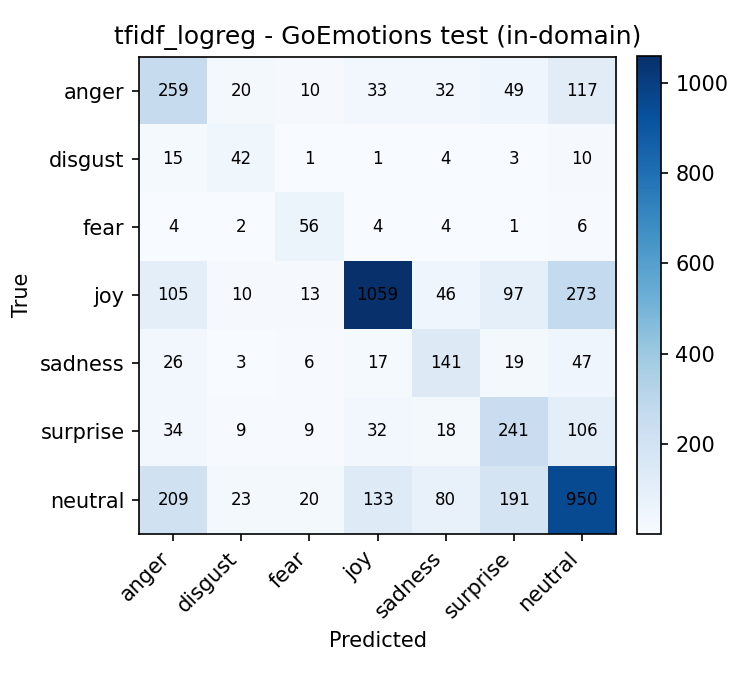
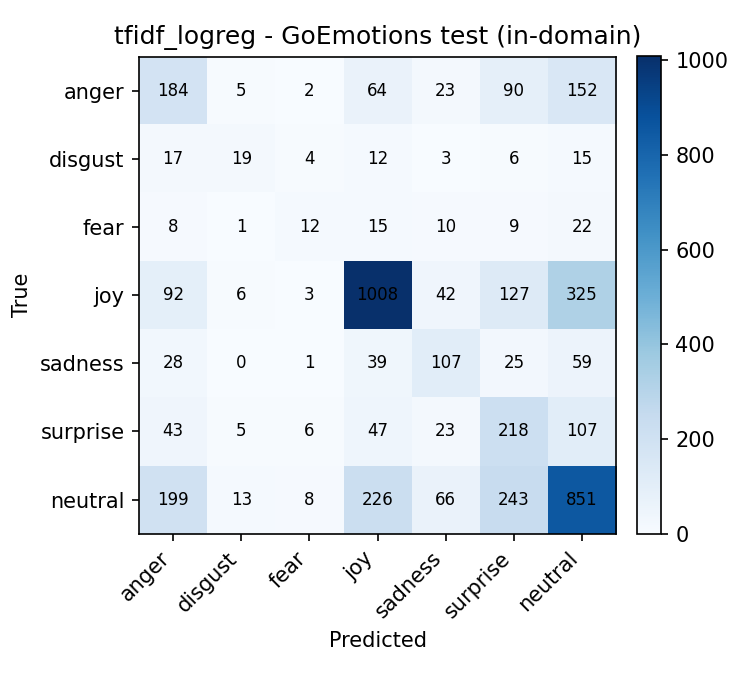
Add retry/backoff for rate limits, incremental cache saving, and progress logging to LLM baseline

diff --git a/src/models.py b/src/models.py
@@ -283,26 +283,49 @@ class LLMFewShotBaseline:
         lines.append("Label:")
         return "\n".join(lines)
 
-    def _call_api(self, prompt, api_key):
+    def _call_api(self, prompt, api_key, max_retries=5):
+        import time as _time
         import requests
-        resp = requests.post(
-            "https://api.anthropic.com/v1/messages",
-            headers={
-                "x-api-key": api_key,
-                "anthropic-version": "2023-06-01",
-                "content-type": "application/json",
-            },
-            json={
-                "model": self.model,
-                "max_tokens": 10,
-                "messages": [{"role": "user", "content": prompt}],
-            },
-            timeout=30,
-        )
-        resp.raise_for_status()
-        data = resp.json()
-        text = "".join(b["text"] for b in data["content"] if b["type"] == "text")
-        return text.strip().lower()
+
+        for attempt in range(max_retries):
+            try:
+                resp = requests.post(
+                    "https://api.anthropic.com/v1/messages",
+                    headers={
+                        "x-api-key": api_key,
+                        "anthropic-version": "2023-06-01",
+                        "content-type": "application/json",
+                    },
+                    json={
+                        "model": self.model,
+                        "max_tokens": 10,
+                        "messages": [{"role": "user", "content": prompt}],
+                    },
+                    timeout=30,
+                )
+            except requests.RequestException:
+                if attempt == max_retries - 1:
+                    raise
+                _time.sleep(2 ** attempt)
+                continue
+
+            # rate limit (429) or transient server error (5xx): back off and retry
+            if resp.status_code == 429 or resp.status_code >= 500:
+                if attempt == max_retries - 1:
+                    resp.raise_for_status()
+                retry_after = resp.headers.get("retry-after")
+                wait = float(retry_after) if retry_after else float(2 ** attempt)
+                print(f"[LLMFewShotBaseline] status {resp.status_code}, "
+                      f"retrying in {wait:.0f}s (attempt {attempt + 1}/{max_retries}) ...")
+                _time.sleep(wait)
+                continue
+
+            resp.raise_for_status()
+            data = resp.json()
+            text = "".join(b["text"] for b in data["content"] if b["type"] == "text")
+            return text.strip().lower()
+
+        raise RuntimeError(f"Exceeded {max_retries} retries calling the Anthropic API")
 
     def predict(self, X, labels):
         import hashlib
@@ -319,25 +342,39 @@ class LLMFewShotBaseline:
         fallback = "neutral" if "neutral" in labels else sorted(labels)[0]
         preds = []
         n_calls = 0
-        for text in X:
-            key = hashlib.sha256(
-                f"{self.model}|{sorted(labels)}|{text}".encode("utf-8")
-            ).hexdigest()
-            if key in self._cache:
-                pred = self._cache[key]
-            else:
-                prompt = self._build_prompt(text, labels)
-                try:
-                    raw = self._call_api(prompt, api_key)
-                except Exception as exc:  # noqa: BLE001 - any API/network error
-                    raise LLMUnavailableError(f"LLM API call failed: {exc}") from exc
-                pred = raw if raw in labels else fallback
-                self._cache[key] = pred
-                n_calls += 1
-                if self.sleep_between_calls:
-                    time.sleep(self.sleep_between_calls)
-            preds.append(pred)
-        if n_calls:
-            self._save_cache()
+        n_total = len(X)
+        t_start = time.time()
+        try:
+            for i, text in enumerate(X):
+                key = hashlib.sha256(
+                    f"{self.model}|{sorted(labels)}|{text}".encode("utf-8")
+                ).hexdigest()
+                if key in self._cache:
+                    pred = self._cache[key]
+                else:
+                    prompt = self._build_prompt(text, labels)
+                    try:
+                        raw = self._call_api(prompt, api_key)
+                    except Exception as exc:  # noqa: BLE001 - any API/network error
+                        raise LLMUnavailableError(
+                            f"LLM API call failed: {exc}") from exc
+                    pred = raw if raw in labels else fallback
+                    self._cache[key] = pred
+                    n_calls += 1
+                    # save after every new call so a crash never loses progress
+                    self._save_cache()
+                    if self.sleep_between_calls:
+                        time.sleep(self.sleep_between_calls)
+                    if n_calls % 25 == 0:
+                        elapsed = time.time() - t_start
+                        rate = elapsed / n_calls
+                        remaining = (n_total - i - 1) * rate
+                        print(f"[LLMFewShotBaseline] {i + 1}/{n_total} rows "
+                              f"({n_calls} new API calls, {elapsed:.0f}s elapsed, "
+                              f"~{remaining:.0f}s remaining at current rate)")
+                preds.append(pred)
+        finally:
+            if n_calls:
+                self._save_cache()
         return preds
 